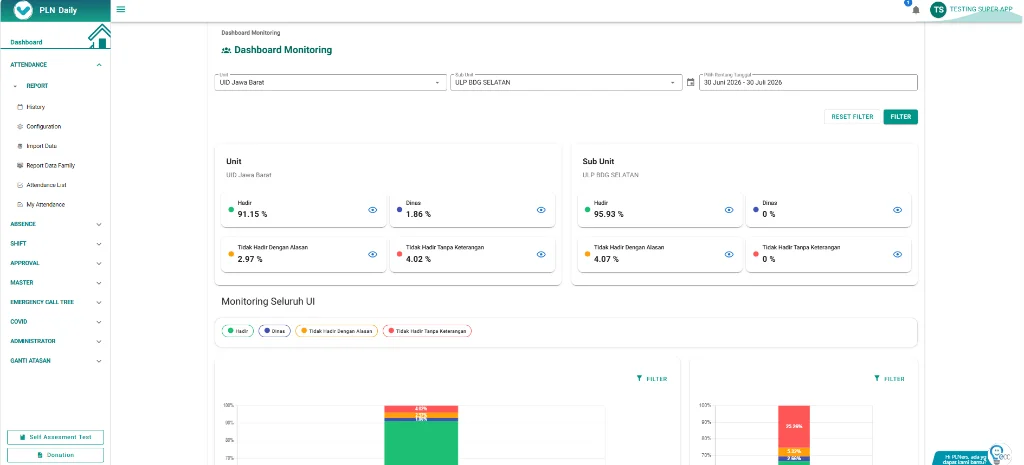
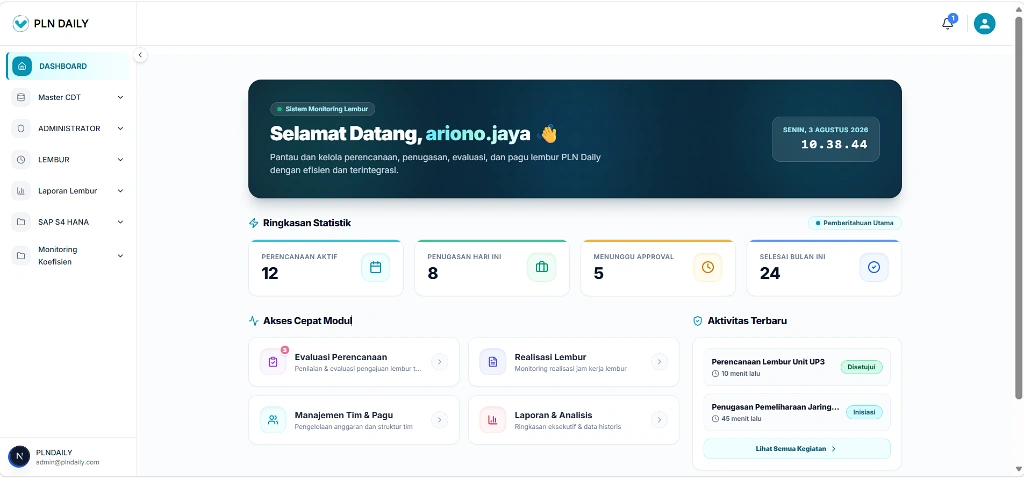
update

diff --git a/index.html b/index.html
@@ -714,25 +714,25 @@
 
       <div class="row portfolio-container g-4">
 
-        <!-- PLN DAILY Enterprise Ecosystem -->
+        <!-- PLN DAILY Platform Enterprise -->
         <div class="col-lg-4 col-md-6 portfolio-item filter-enterprise">
           <div class="portfolio-wrap">
             <div class="swiper portfolio-swiper position-relative">
               <div class="portfolio-gallery-badge"><i class="bi bi-images"></i> 2 Photos</div>
               <div class="swiper-wrapper">
                 <div class="swiper-slide">
-                  <a href="assets/img/portfolio/pln-daily-v2.webp" data-gallery="portfolioGallery" class="portfolio-lightbox" title="PLN DAILY Ecosystem">
+                  <a href="assets/img/portfolio/pln-daily-1.webp" data-gallery="portfolioGallery" class="portfolio-lightbox" title="PLN DAILY Platform - Dashboard Sistem Monitoring Lembur &amp; Overtime Analytics">
                     <picture>
-                      <source srcset="assets/img/portfolio/pln-daily-v2.avif" type="image/avif">
-                      <img src="assets/img/portfolio/pln-daily-v2.webp" class="img-fluid" alt="PLN DAILY Enterprise Ecosystem" loading="lazy" decoding="async" width="360" height="220">
+                      <source srcset="assets/img/portfolio/pln-daily-1.avif" type="image/avif">
+                      <img src="assets/img/portfolio/pln-daily-1.webp" class="img-fluid" alt="PLN DAILY Monitoring Lembur" loading="lazy" decoding="async" width="360" height="220">
                     </picture>
                   </a>
                 </div>
                 <div class="swiper-slide">
-                  <a href="assets/img/portfolio/pln-daily-2.webp" data-gallery="portfolioGallery" class="portfolio-lightbox" title="PLN DAILY HRMS">
+                  <a href="assets/img/portfolio/pln-daily-v2.webp" data-gallery="portfolioGallery" class="portfolio-lightbox" title="PLN DAILY Platform - Enterprise HRMS Ecosystem &amp; Shift Management">
                     <picture>
-                      <source srcset="assets/img/portfolio/pln-daily-2.avif" type="image/avif">
-                      <img src="assets/img/portfolio/pln-daily-2.webp" class="img-fluid" alt="PLN DAILY HRMS" loading="lazy" decoding="async" width="360" height="220">
+                      <source srcset="assets/img/portfolio/pln-daily-v2.avif" type="image/avif">
+                      <img src="assets/img/portfolio/pln-daily-v2.webp" class="img-fluid" alt="PLN DAILY Enterprise HRMS" loading="lazy" decoding="async" width="360" height="220">
                     </picture>
                   </a>
                 </div>
@@ -743,9 +743,10 @@
             </div>
             <div class="portfolio-info">
               <h4>PLN DAILY Platform</h4>
-              <p>Enterprise HR platform serving <strong>37,000+ employees</strong> featuring Attendance, Shift, Overtime (Lembur), Covid tracking &amp; HRMS. Reengineered to Next.js, TypeScript &amp; Golang.</p>
+              <p>Enterprise HR platform serving <strong>37,000+ employees</strong> featuring Attendance, Shift, Overtime (Lembur), Covid tracking, HRMS &amp; SAP S/4HANA Integration. Reengineered to Next.js, TypeScript &amp; Golang.</p>
               <div class="portfolio-tags">
                 <span class="portfolio-tag">37,000+ Concurrency</span>
+                <span class="portfolio-tag">SAP S/4HANA Integration</span>
                 <span class="portfolio-tag">Next.js</span>
                 <span class="portfolio-tag">TypeScript</span>
                 <span class="portfolio-tag">Golang</span>
@@ -782,10 +783,12 @@
               <h4>Customer Relation Website</h4>
               <p>Enterprise admin portal for customer complaint analytics, master data management &amp; satisfaction survey monitoring.</p>
               <div class="portfolio-tags">
+                <span class="portfolio-tag">Laravel</span>
+                <span class="portfolio-tag">PHP</span>
+                <span class="portfolio-tag">Livewire</span>
                 <span class="portfolio-tag">Web Portal</span>
                 <span class="portfolio-tag">REST API</span>
-                <span class="portfolio-tag">Analytics Dashboard</span>
-                <span class="portfolio-tag">PLN Nusa Daya</span>
+                <span class="portfolio-tag">MySQL</span>
               </div>
               <div class="portfolio-links mt-2">
                 <a href="https://github.com/ArionoS" target="_blank" rel="noopener"><i class="bi bi-github"></i> Code Repo</a>
@@ -817,10 +820,12 @@
               <h4>Fuel Management Web Portal</h4>
               <p>Enterprise administration portal for fleet fuel auditing, digital wallet allocation, SPBU expense ledgers &amp; master vehicle data.</p>
               <div class="portfolio-tags">
-                <span class="portfolio-tag">Web Portal</span>
-                <span class="portfolio-tag">REST API</span>
+                <span class="portfolio-tag">Laravel</span>
+                <span class="portfolio-tag">PHP</span>
+                <span class="portfolio-tag">Livewire</span>
                 <span class="portfolio-tag">Fleet Management</span>
-                <span class="portfolio-tag">PLN Nusa Daya</span>
+                <span class="portfolio-tag">REST API</span>
+                <span class="portfolio-tag">MySQL</span>
               </div>
               <div class="portfolio-links mt-2">
                 <a href="https://github.com/ArionoS" target="_blank" rel="noopener"><i class="bi bi-github"></i> Code Repo</a>
@@ -906,13 +911,13 @@
               <div class="portfolio-gallery-badge"><i class="bi bi-images"></i> 2 Screenshots</div>
               <div class="swiper-wrapper">
                 <div class="swiper-slide">
-                  <a href="assets/img/portfolio/hris-web-1.webp" data-gallery="portfolioGalleryHRISWeb" class="portfolio-lightbox" title="MYPLNT HRIS Website - Master Data Pegawai &amp; NIP Employee Management">
-                    <img src="assets/img/portfolio/hris-web-1.webp" class="img-fluid" alt="MYPLNT HRIS Data Pegawai Table" loading="lazy" decoding="async">
+                  <a href="assets/img/portfolio/pln-daily-1.webp" data-gallery="portfolioGalleryHRISWeb" class="portfolio-lightbox" title="MYPLNT / PLN Daily HRIS Website - Monitoring Lembur &amp; Master Data Dashboard">
+                    <img src="assets/img/portfolio/pln-daily-1.webp" class="img-fluid" alt="MYPLNT / PLN Daily Dashboard Monitoring Lembur" loading="lazy" decoding="async">
                   </a>
                 </div>
                 <div class="swiper-slide">
-                  <a href="assets/img/portfolio/hris-web-2.webp" data-gallery="portfolioGalleryHRISWeb" class="portfolio-lightbox" title="MYPLNT HRIS Website - Vendor &amp; Organizational Master Data Administration">
-                    <img src="assets/img/portfolio/hris-web-2.webp" class="img-fluid" alt="MYPLNT HRIS Data Vendor Table" loading="lazy" decoding="async">
+                  <a href="assets/img/portfolio/hris-web-1.webp" data-gallery="portfolioGalleryHRISWeb" class="portfolio-lightbox" title="MYPLNT HRIS Website - Master Data Pegawai &amp; NIP Employee Management">
+                    <img src="assets/img/portfolio/hris-web-1.webp" class="img-fluid" alt="MYPLNT HRIS Data Pegawai Table" loading="lazy" decoding="async">
                   </a>
                 </div>
               </div>
@@ -922,10 +927,12 @@
               <h4>MYPLNT HRIS Website</h4>
               <p>Enterprise Human Resource web portal for NIP employee lifecycle tracking, vendor management &amp; master organizational hierarchy.</p>
               <div class="portfolio-tags">
-                <span class="portfolio-tag">Web Portal</span>
+                <span class="portfolio-tag">Laravel</span>
+                <span class="portfolio-tag">PHP</span>
+                <span class="portfolio-tag">Livewire</span>
                 <span class="portfolio-tag">HRMS / HRIS</span>
                 <span class="portfolio-tag">Master Data</span>
-                <span class="portfolio-tag">MYPLNT</span>
+                <span class="portfolio-tag">MySQL</span>
               </div>
               <div class="portfolio-links mt-2">
                 <a href="https://github.com/ArionoS" target="_blank" rel="noopener"><i class="bi bi-github"></i> Code Repo</a>
@@ -1322,8 +1329,8 @@
         <div class="col-lg-4 col-md-6 portfolio-item filter-enterprise">
           <div class="portfolio-wrap">
             <picture>
-              <source srcset="assets/img/portfolio/portfolio-2.avif" type="image/avif">
-              <img src="assets/img/portfolio/portfolio-2.webp" class="img-fluid" alt="MyPLNT & SOE Web Portals" loading="lazy" decoding="async" width="360" height="220">
+              <source srcset="assets/img/portfolio/pln-daily-1.avif" type="image/avif">
+              <img src="assets/img/portfolio/pln-daily-1.webp" class="img-fluid" alt="MyPLNT & SOE Web Portals" loading="lazy" decoding="async" width="360" height="220">
             </picture>
             <div class="portfolio-info">
               <h4>MyPLNT &amp; SOE Web Portals</h4>
@@ -1369,10 +1376,10 @@
               <p>Enterprise mobile HR human resource system featuring attendance, Cuti, SPPD travel approvals, Payslips &amp; ESS portal.</p>
               <div class="portfolio-tags">
                 <span class="portfolio-tag">Flutter</span>
+                <span class="portfolio-tag">Dart</span>
                 <span class="portfolio-tag">REST API</span>
                 <span class="portfolio-tag">Golang</span>
-                <span class="portfolio-tag">PLN Nusa Daya</span>
-                <span class="portfolio-tag">37,000+ Users</span>
+                <span class="portfolio-tag">37,000+ Concurrency</span>
               </div>
               <div class="portfolio-links mt-2">
                 <a href="https://github.com/ArionoS" target="_blank" rel="noopener"><i class="bi bi-github"></i> Code Repo</a>
@@ -1410,10 +1417,10 @@
               <p>Mobile customer complaint tracking &amp; satisfaction survey portal with offline SQLite sync &amp; Firebase realtime engine.</p>
               <div class="portfolio-tags">
                 <span class="portfolio-tag">Flutter</span>
+                <span class="portfolio-tag">Dart</span>
                 <span class="portfolio-tag">SQLite</span>
                 <span class="portfolio-tag">Firebase</span>
                 <span class="portfolio-tag">REST API</span>
-                <span class="portfolio-tag">PLN Nusa Daya</span>
               </div>
               <div class="portfolio-links mt-2">
                 <a href="https://github.com/ArionoS" target="_blank" rel="noopener"><i class="bi bi-github"></i> Code Repo</a>
@@ -1453,7 +1460,7 @@
                 <span class="portfolio-tag">Flutter</span>
                 <span class="portfolio-tag">Dart</span>
                 <span class="portfolio-tag">REST API</span>
-                <span class="portfolio-tag">PLN Nusa Daya</span>
+                <span class="portfolio-tag">SPBU Geofencing</span>
               </div>
               <div class="portfolio-links mt-2">
                 <a href="https://github.com/ArionoS" target="_blank" rel="noopener"><i class="bi bi-github"></i> Code Repo</a>
@@ -1491,9 +1498,9 @@
               <p>Real-time power plant telemetry monitoring, GIS plant mapping &amp; turbine machine status analytics for 1,400+ power units.</p>
               <div class="portfolio-tags">
                 <span class="portfolio-tag">Flutter</span>
+                <span class="portfolio-tag">Dart</span>
                 <span class="portfolio-tag">GIS / Maps</span>
                 <span class="portfolio-tag">IoT Telemetry</span>
-                <span class="portfolio-tag">PLN Nusa Daya</span>
               </div>
               <div class="portfolio-links mt-2">
                 <a href="https://github.com/ArionoS" target="_blank" rel="noopener"><i class="bi bi-github"></i> Code Repo</a>

diff --git a/assets/css/style.css b/assets/css/style.css
@@ -1044,7 +1044,8 @@ section.section-show {
   border-radius: 16px;
   overflow: hidden;
   position: relative;
-  height: 460px;
+  height: 100%;
+  min-height: 440px;
   display: flex;
   flex-direction: column;
   transition: transform 0.35s cubic-bezier(0.16, 1, 0.3, 1), opacity 0.35s ease, border-color 0.35s ease, box-shadow 0.35s ease;
@@ -1071,12 +1072,8 @@ section.section-show {
   color: #fff;
   background: rgba(15, 23, 42, 0.6);
   backdrop-filter: blur(4px);
-  -webkit-backdrop-filter: blur(4px);
-  width: 32px !important;
-  height: 32px !important;
   border-radius: 50%;
-  border: 1px solid rgba(255, 255, 255, 0.1);
-  opacity: 0;
+  color: #fff !important;
   transition: opacity 0.3s ease;
 }
 
@@ -1112,7 +1109,7 @@ section.section-show {
 
 .portfolio-wrap img {
   width: 100%;
-  height: 240px;
+  height: 220px;
   object-fit: cover;
   object-position: top center;
   image-rendering: -webkit-optimize-contrast;
@@ -1126,7 +1123,7 @@ section.section-show {
 
 .portfolio-swiper {
   width: 100%;
-  height: 240px;
+  height: 220px;
   flex-shrink: 0;
   overflow: hidden;
 }
@@ -1151,9 +1148,9 @@ section.section-show {
 .portfolio-info h4 {
   font-size: 1.15rem;
   font-weight: 700;
-  margin-bottom: 6px;
+  margin-bottom: 8px;
   color: #ffffff;
-  min-height: 2.5rem;
+  min-height: 2.4rem;
   display: flex;
   align-items: center;
 }
@@ -1161,48 +1158,31 @@ section.section-show {
 .portfolio-info p {
   color: var(--text-muted);
   font-size: 0.85rem;
-  margin-bottom: 12px;
-  min-height: 85px;
+  margin-bottom: 14px;
+  line-height: 1.5;
+  flex-grow: 1;
 }
 
 .portfolio-tags {
   display: flex;
   gap: 6px;
-  flex-wrap: nowrap;
-  overflow-x: auto;
-  padding-bottom: 2px;
-  margin-bottom: 8px;
-  scrollbar-width: none;
-  -webkit-overflow-scrolling: touch;
-}
-
-.portfolio-tags::-webkit-scrollbar {
-  display: none;
+  flex-wrap: wrap;
+  align-items: center;
+  margin-bottom: 14px;
 }
 
 .portfolio-tag {
   font-size: 0.75rem;
   background: rgba(255, 255, 255, 0.08);
   color: var(--color-primary);
-  padding: 2px 10px;
+  padding: 3px 10px;
   border-radius: 12px;
   font-weight: 500;
   white-space: nowrap;
-  flex-shrink: 0;
 }
 
 .portfolio-links {
-  display: flex;
-  gap: 12px;
-  margin-top: auto;
-}
-
-.portfolio-links a {
-  display: inline-flex;
-  align-items: center;
-  gap: 4px;
-  font-size: 0.85rem;
-  font-weight: 600;
+  display: none !important;
 }
 
 /*--------------------------------------------------------------
